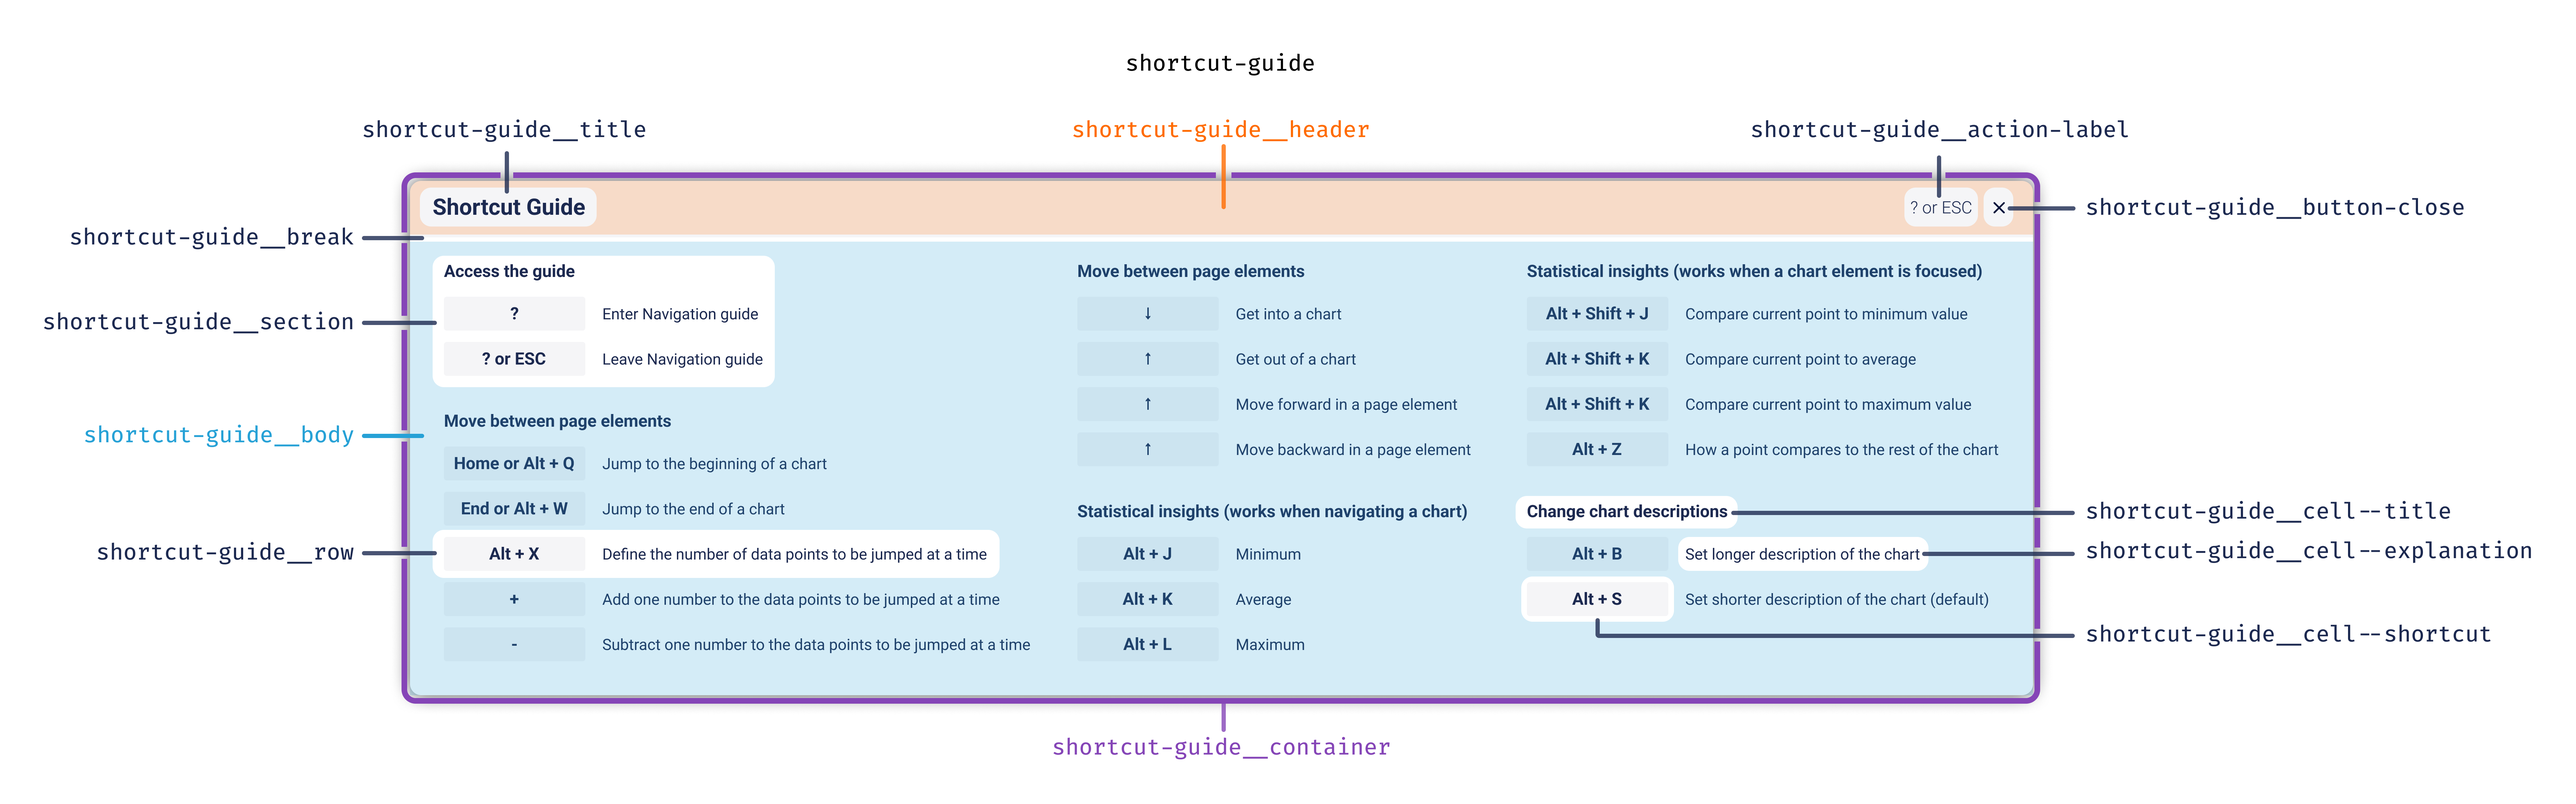
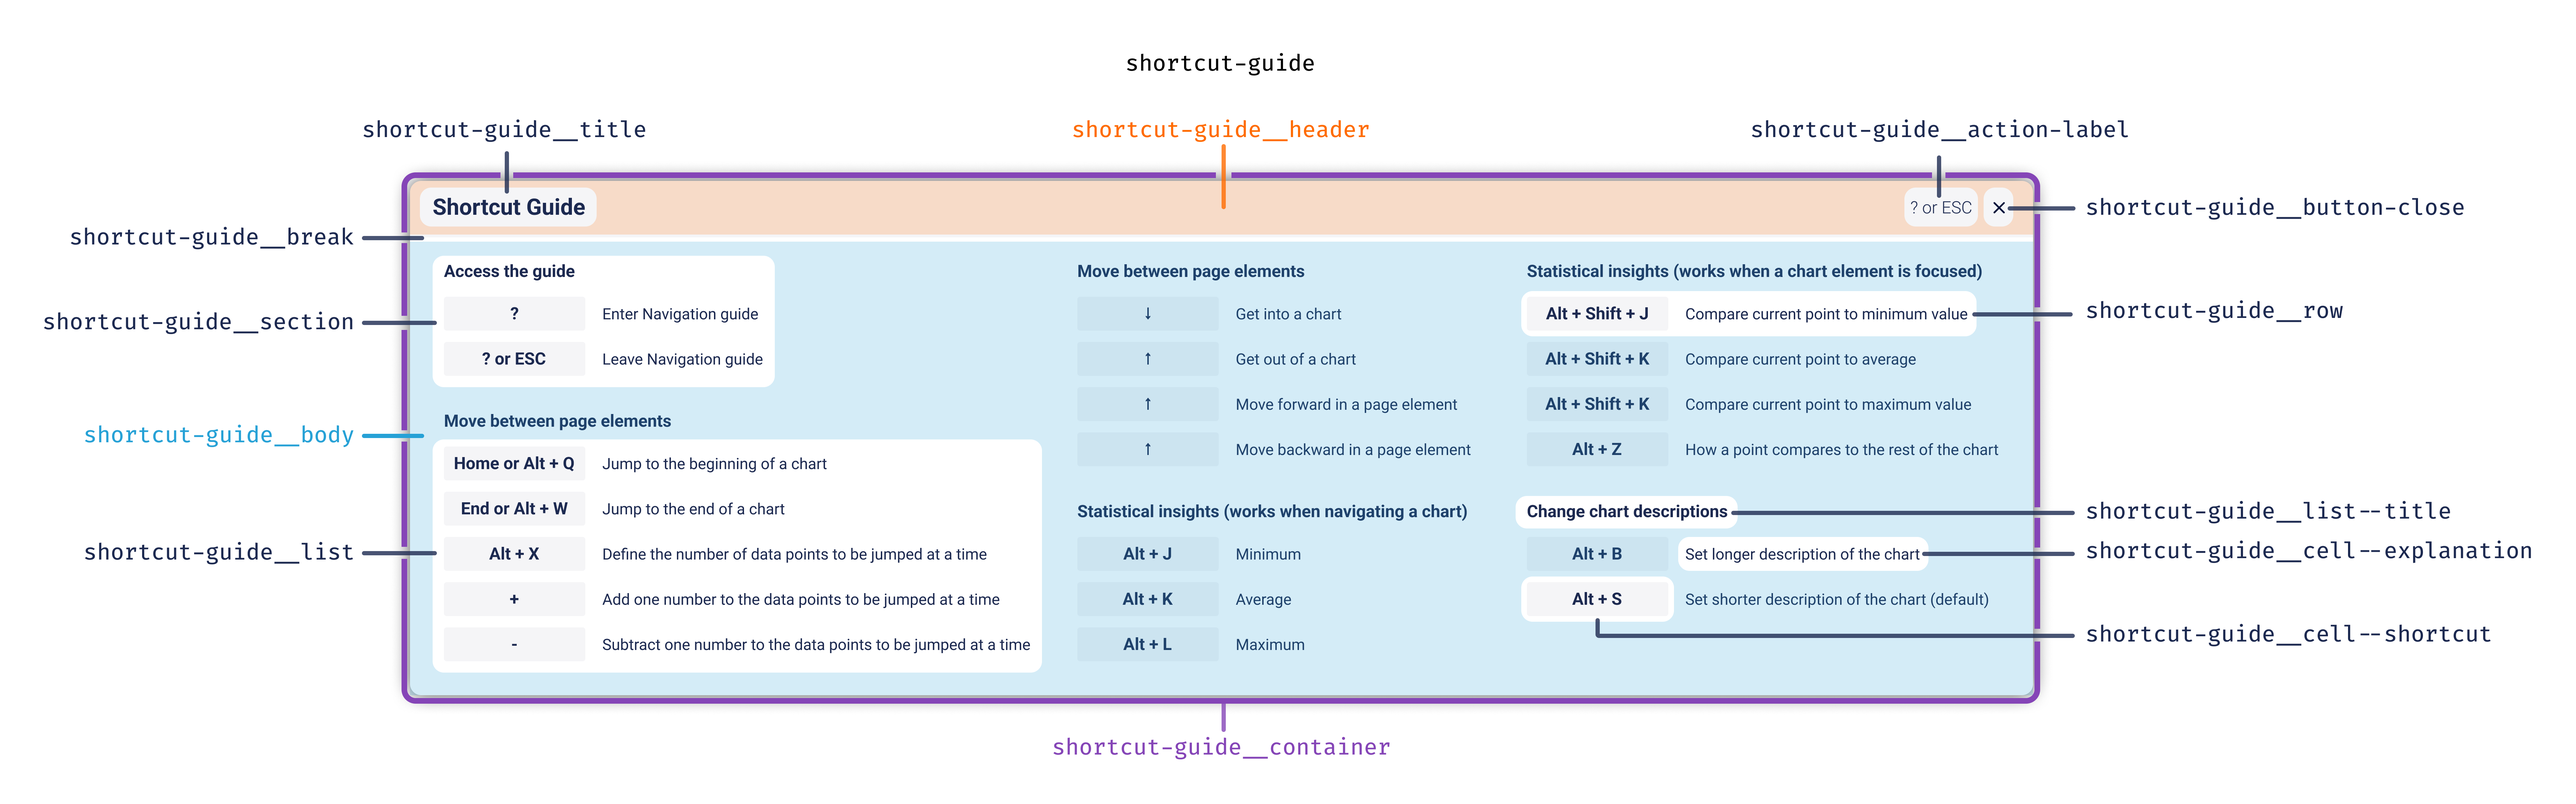
feat: changed readme to account the tag changes. changed title class name and explanations styling

Changed region(s): [[0.1557, 0.5303, 0.4049, 0.8423], [0.5918, 0.3431, 0.9033, 0.4367], [0.0311, 0.6863, 0.1246, 0.7175]]

diff --git a/src/assets/style/NativeShortcutGuide.css b/src/assets/style/NativeShortcutGuide.css
@@ -22,7 +22,6 @@
 	--shortcut-guide-title-font-weight: 700;
 	--shortcut-guide-cell-background: #f5f5f7;
 	--shortcut-guide-cell-title-font-size: 0.75rem;
-	--shortcut-guide-cell-title-max-width: 100px;
 	--shortcut-guide-cell-shortcut-font-size: 0.75rem;
 	--shortcut-guide-cell-shortcut-background: #f5f5f7;
 	--shortcut-guide-cell-shortcut-height: 1.5rem;
@@ -89,25 +88,27 @@
 	display: none;
 }
 
-.shortcut-guide__cell--title {
+.shortcut-guide__list--title {
 	margin: 0 auto 0 0;
 }
 
-.shortcut-guide__cell--title,
+.shortcut-guide__list--title,
 .shortcut-guide__cell--explanation {
 	text-align: left;
 	padding-left: 0;
+	margin: 0;
 }
 
-.shortcut-guide__cell--title,
+.shortcut-guide__list--title,
 .shortcut-guide__cell--shortcut {
 	font-size: var(--shortcut-guide-cell-title-font-size);
 }
 
-.shortcut-guide__cell--title {
-	max-width: var(--shortcut-guide-cell-title-max-width);
+.shortcut-guide__list--title {
 	white-space: nowrap;
 	font-weight: var(--shortcut-guide-title-font-weight);
+	overflow: hidden;
+	text-overflow: ellipsis;
 }
 
 .shortcut-guide__cell--shortcut {

diff --git a/src/constants.ts b/src/constants.ts
@@ -36,8 +36,8 @@ export const SHORTCUTGUIDE_CLASSES = {
 	shortcutGuideBreak: "shortcut-guide__break",
 	shortcutGuideBody: "shortcut-guide__body",
 	shortcutGuideSection: "shortcut-guide__section",
+	shortcutGuideListTitle: "shortcut-guide__list--title",
 	shortcutGuideRow: "shortcut-guide__row",
-	shortcutGuideCellTitle: "shortcut-guide__cell shortcut-guide__cell--title",
 	shortcutGuideCellShortcut: "shortcut-guide__cell shortcut-guide__cell--shortcut",
 	shortcutGuideCellExplanation: "shortcut-guide__cell shortcut-guide__cell--explanation",
 	shortcutGuideDescription: "visually-hidden",

diff --git a/src/NativeShortcutGuide.tsx b/src/NativeShortcutGuide.tsx
@@ -60,7 +60,7 @@ const NativeShortcutGuide: FC = () => {
 							<>
 								<div className={constants.SHORTCUTGUIDE_CLASSES.shortcutGuideSection}>
 									<h3
-										className={constants.SHORTCUTGUIDE_CLASSES.shortcutGuideCellTitle}
+										className={constants.SHORTCUTGUIDE_CLASSES.shortcutGuideListTitle}
 										id={`listHeader${sectionIndex}`}
 										aria-label={`Section: ${section.title}`}
 									>

diff --git a/README.md b/README.md
@@ -206,19 +206,23 @@ The Shortcut Guide is the only aspect of AutoVizuA11y that is also visual. You m
 
 <img src="./src/assets/images/shortcut_guide_class_anatomy.png">
 
-| className                      | HTML   |
-| ------------------------------ | ------ |
-| shortcut-guide                 | form   |
-| shortcut-guide\_\_container    | div    |
-| shortcut-guide\_\_header       | div    |
-| shortcut-guide\_\_title        | h2     |
-| shortcut-guide\_\_button-label | p      |
-| shortcut-guide\_\_button       | button |
-| shortcut-guide\_\_break        | hr     |
-| shortcut-guide\_\_body         | div    |
-| shortcut-guide\_\_section      | div    |
-| shortcut-guide\_\_row          | div    |
-| shortcut-guide\_\_cell         | div    |
+| className                           | HTML   |
+| ----------------------------------- | ------ |
+| shortcut-guide                      | form   |
+| shortcut-guide\_\_container         | div    |
+| shortcut-guide\_\_header            | div    |
+| shortcut-guide\_\_title             | h2     |
+| shortcut-guide\_\_button-label      | p      |
+| shortcut-guide\_\_button            | button |
+| shortcut-guide\_\_break             | hr     |
+| shortcut-guide\_\_body              | div    |
+| shortcut-guide\_\_section           | div    |
+| shortcut-guide\_\_list--title       | h3     |
+| shortcut-guide\_\_list              | dl     |
+| shortcut-guide\_\_row               | div    |
+| shortcut-guide\_\_cell              | div    |
+| shortcut-guide\_\_cell--shortcut    | dt     |
+| shortcut-guide\_\_cell--explanation | dl     |
 
 ## Citing AutoVizuA11y
 
